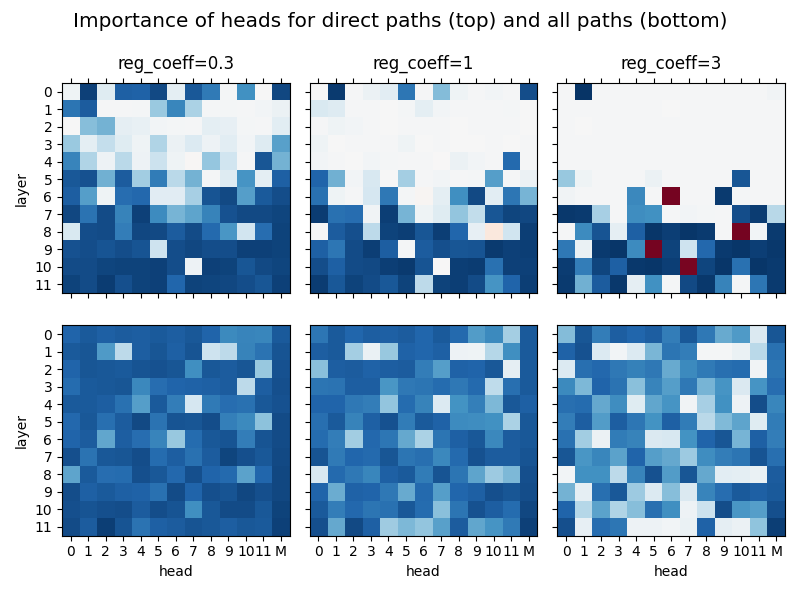
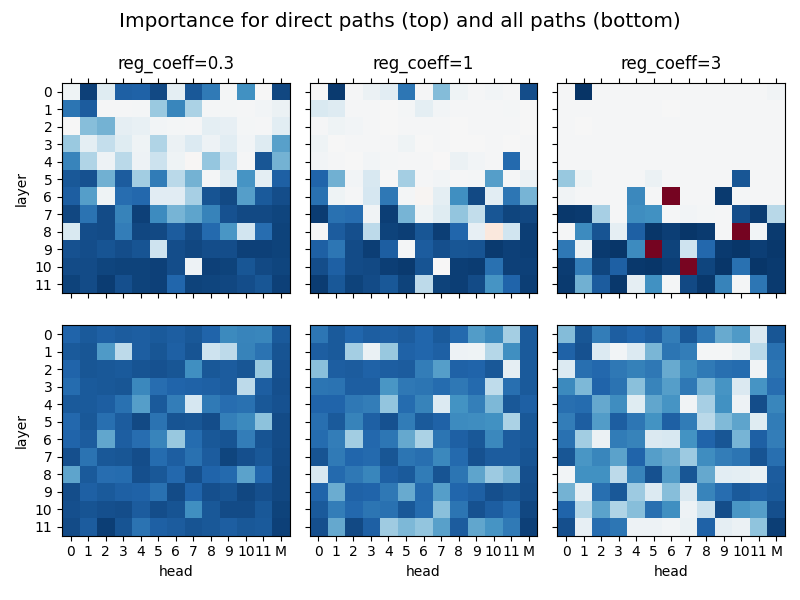
figure refinement

Changed region(s): [[0.0938, 0.0, 0.9062, 0.06]]

diff --git a/outliner/run.py b/outliner/run.py
@@ -171,6 +171,25 @@ def get_matching_info(experiments: List[ExperimentInfo], **kwargs):
     assert len(matches) == 1, f"Found {len(matches)} matches for {kwargs}"
     return matches[0]
 
+# %%
+fig, axs = plt.subplots(1, 2, sharey=True, figsize=(8, 4), squeeze=False)
+direct_info = get_matching_info(sweep_infos, direct_out = True, reg_coeff=1)
+indirect_info = get_matching_info(sweep_infos, direct_out = False, reg_coeff=1)
+
+axs[0, 0].matshow(
+    indirect_info.snapshot.heads_and_mlps(diff=True), cmap="RdBu", vmin=-1, vmax=1
+)
+axs[0, 1].matshow(direct_info.snapshot.heads_and_mlps(diff=True), cmap="RdBu", vmin=-1, vmax=1)
+label_axes(axs)
+axs[0, 0].set_title("Indirect")
+axs[0, 1].set_title("Direct")
+
+plt.tight_layout()
+fig.savefig(IMG_FOLDER + "base_lm_fig.png")
+
+
+# %%
+
 
 fig, axs = plt.subplots(2, 3, figsize=(8, 6), sharex=True, sharey=True)
 for i, is_direct in enumerate([True, False]):
@@ -183,7 +202,7 @@ for i, is_direct in enumerate([True, False]):
             ax.set_title(f"reg_coeff={reg_coeff}", pad=10)
 
 label_axes(axs)
-fig.suptitle("Importance of heads for direct paths (top) and all paths (bottom)", size="x-large")
+fig.suptitle("Importance for direct paths (top) and all paths (bottom)", size="x-large")
 plt.tight_layout()
 plt.savefig(IMG_FOLDER + "mixing_heads.png")
 
@@ -337,6 +356,7 @@ frontier_plot(
     xlabel=None,
     normalize=True,
     color="cornflowerblue",
+    ylabel="Normalized loss"
 )
 
 frontier_plot(
@@ -361,6 +381,7 @@ frontier_plot(
     title="Indirect",
     normalize=True,
     color="maroon",
+    ylabel="Normalized loss",
 )
 frontier_plot(
     eos_flat_losses["ps"],
